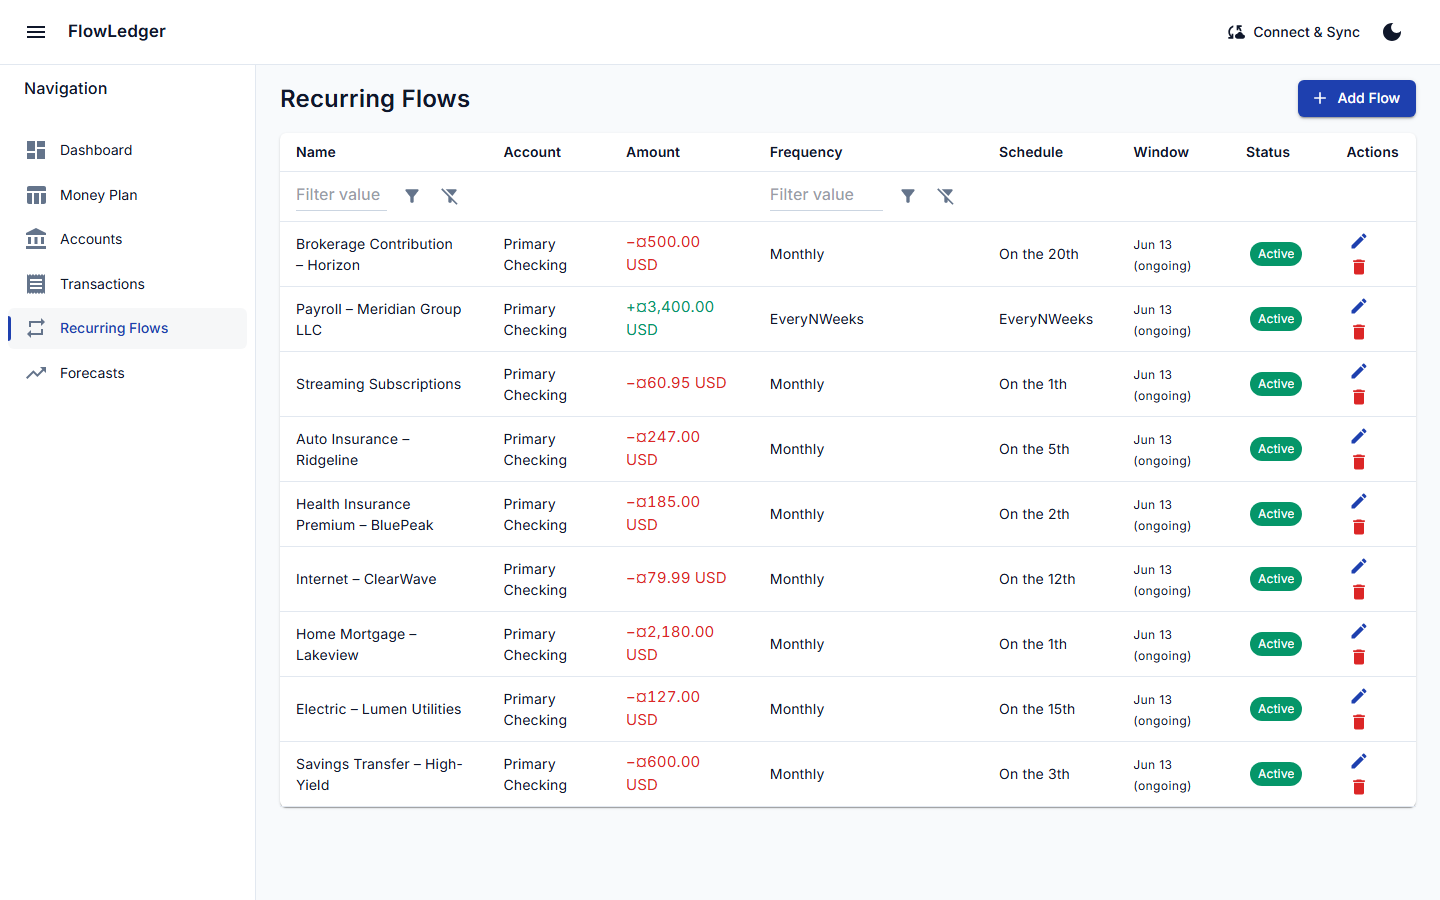
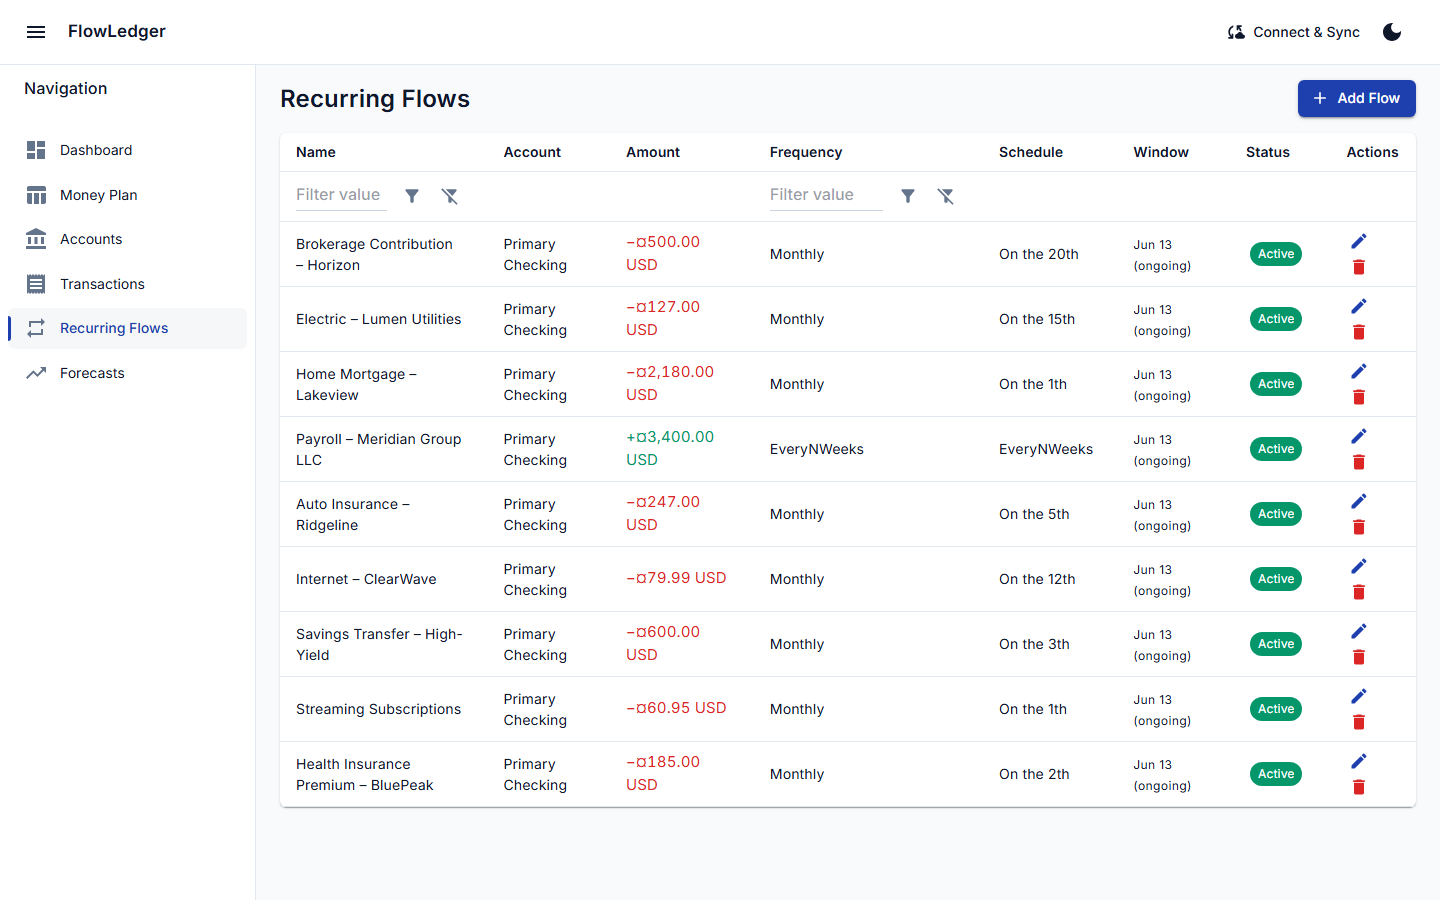
[FlowLedger] Add dark-mode screenshots: capture all pages in both light and dark themes
Extends ScreenshotCaptureTests to capture every page in both light and dark mode.
Uses Playwright ColorScheme emulation on a fresh browser context per pass — the app
reads prefers-color-scheme via FlowLedgerTheme.getSystemPrefersDark() on first render,
so context-level emulation is the most reliable and timing-safe trigger.

Naming scheme: existing <page>.png files unchanged for light mode; dark variants added
as <page>-dark.png (accounts, dashboard, forecast, money-plan, recurring-flows,
transactions).

Also raises check-added-large-files maxkb from 500 to 512 to accommodate the
transactions page screenshots which contain dense tabular data (~505 KB each).

diff --git a/tests/FlowLedger.E2E.Tests/ScreenshotCaptureTests.cs b/tests/FlowLedger.E2E.Tests/ScreenshotCaptureTests.cs
@@ -23,6 +23,10 @@ using Microsoft.Playwright;
 /// Optional:
 ///   SCREENSHOT_OUTPUT_DIR — override output directory (default: docs/assets/screenshots
 ///                           resolved relative to the repo root two levels above the test bin)
+///
+/// Naming convention:
+///   Light mode: &lt;page&gt;.png          (e.g. dashboard.png)
+///   Dark mode:  &lt;page&gt;-dark.png     (e.g. dashboard-dark.png)
 /// </summary>
 [Trait("Category", "Screenshots")]
 public class ScreenshotCaptureTests : E2ETestBase
@@ -42,17 +46,28 @@ public class ScreenshotCaptureTests : E2ETestBase
     private static string TenantId =>
         Environment.GetEnvironmentVariable("E2E_TENANT_ID") ?? DefaultTenantId;
 
+    // ── Page definitions ──────────────────────────────────────────────────────
+
+    /// <summary>
+    /// Pages to capture: (route, base filename without extension, required aria selector).
+    /// Both light and dark variants are captured for each entry.
+    /// </summary>
+    private static readonly (string Path, string BaseName, string WaitForSelector)[] Pages =
+    [
+        ("/",               "dashboard",       "[aria-label='Balance projection chart']"),
+        ("/accounts",       "accounts",        "[aria-label='Accounts table']"),
+        ("/transactions",   "transactions",    "[aria-label='Transactions table']"),
+        ("/money-plan",     "money-plan",      "[aria-label='Money plan spreadsheet']"),
+        ("/recurring-flows","recurring-flows", "[aria-label='Recurring flows table']"),
+        ("/forecasts",      "forecast",        "[aria-label='Aggregate balance projection chart']"),
+    ];
+
     // ── Screenshot tests ──────────────────────────────────────────────────────
 
-    [Fact(DisplayName = "Screenshots: seed data then capture all key pages")]
+    [Fact(DisplayName = "Screenshots: seed data then capture all key pages (light + dark)")]
     public async Task Capture_all_key_pages()
     {
         if (ShouldSkip) { return; }
-
-        // Screenshot-specific page setup: 1440×900 @ 2× for crisp HiDPI PNGs.
-        // E2ETestBase creates the page at the default viewport; we resize here.
-        await Page!.SetViewportSizeAsync(1440, 900);
-        Page.SetDefaultTimeout(30_000);
 
         var outputDir = ResolveOutputDir();
         Directory.CreateDirectory(outputDir);
@@ -60,28 +75,70 @@ public class ScreenshotCaptureTests : E2ETestBase
         // Step 1 — ensure data is seeded (idempotent: 409 = already connected).
         await SeedDataAsync();
 
-        // Step 2 — warm up the app by navigating to the home page once.
-        await NavigateAsync("/");
-        await WaitForLoadAsync();
-        await Page!.WaitForTimeoutAsync(2_000);
+        // Step 2 — capture light mode (default — no color-scheme override).
+        await CaptureAllPagesAsync(outputDir, darkMode: false);
 
-        // Step 3 — capture each page.
-        // Dashboard: wait for the SVG chart — "No forecast data" is not acceptable after seeding.
-        await CapturePageAsync("/", "dashboard.png", outputDir,
-            waitForSelector: "[aria-label='Balance projection chart']");
-        await CapturePageAsync("/accounts", "accounts.png", outputDir,
-            waitForSelector: "[aria-label='Accounts table']");
-        await CapturePageAsync("/transactions", "transactions.png", outputDir,
-            waitForSelector: "[aria-label='Transactions table']");
-        await CapturePageAsync("/money-plan", "money-plan.png", outputDir,
-            waitForSelector: "[aria-label='Money plan spreadsheet']");
-        await CapturePageAsync("/recurring-flows", "recurring-flows.png", outputDir,
-            waitForSelector: "[aria-label='Recurring flows table']");
-        await CapturePageAsync("/forecasts", "forecast.png", outputDir,
-            waitForSelector: "[aria-label='Aggregate balance projection chart']");
+        // Step 3 — capture dark mode.
+        // The app reads prefers-color-scheme via FlowLedgerTheme.getSystemPrefersDark()
+        // on first render (OnAfterRenderAsync) and passes it to ThemeService.Initialize().
+        // MudThemeProvider also has ObserveSystemDarkModeChange="true".
+        // EmulateMediaAsync on a fresh context is therefore the most reliable trigger:
+        // it makes matchMedia('(prefers-color-scheme: dark)') return true throughout the
+        // session without needing to click the in-app toggle or deal with Blazor circuit
+        // timing issues.
+        await CaptureAllPagesAsync(outputDir, darkMode: true);
     }
 
     // ── Private helpers ───────────────────────────────────────────────────────
+
+    /// <summary>
+    /// Captures every page in <see cref="Pages"/> using a fresh browser context so the
+    /// color-scheme emulation is clean for each mode.
+    /// </summary>
+    private async Task CaptureAllPagesAsync(string outputDir, bool darkMode)
+    {
+        var colorScheme = darkMode ? ColorScheme.Dark : ColorScheme.Light;
+        var suffix = darkMode ? "-dark" : string.Empty;
+
+        // Create a dedicated context for this color-scheme pass so localStorage from a
+        // previous pass does not bleed through (each context starts with a clean slate).
+        await using var context = await CreateColorSchemeContextAsync(colorScheme);
+        var page = await context.NewPageAsync();
+
+        // 1440×900 @ default DPR for crisp, consistent documentation screenshots.
+        await page.SetViewportSizeAsync(1440, 900);
+        page.SetDefaultTimeout(30_000);
+
+        // Warm up: navigate to the home page once to let the Blazor circuit initialise
+        // and the theme preference to be read from matchMedia.
+        var warmUpUrl = $"{BaseUrl.TrimEnd('/')}/";
+        await page.GotoAsync(warmUpUrl, new PageGotoOptions { WaitUntil = WaitUntilState.NetworkIdle });
+        await page.WaitForTimeoutAsync(2_000);
+
+        foreach (var (path, baseName, waitForSelector) in Pages)
+        {
+            var filename = $"{baseName}{suffix}.png";
+            await CapturePageAsync(page, path, filename, outputDir, waitForSelector);
+        }
+    }
+
+    /// <summary>
+    /// Creates a new <see cref="IBrowserContext"/> with the given color-scheme emulated.
+    /// The caller is responsible for disposing the returned context.
+    /// </summary>
+    private async Task<IBrowserContext> CreateColorSchemeContextAsync(ColorScheme colorScheme)
+    {
+        // Playwright is initialised by E2ETestBase.InitializeAsync(); the browser is
+        // the same Chromium instance — we just open an additional isolated context.
+        var browser = Context!.Browser
+            ?? throw new InvalidOperationException(
+                "E2ETestBase browser is not available. Ensure InitializeAsync ran successfully.");
+
+        return await browser.NewContextAsync(new BrowserNewContextOptions
+        {
+            ColorScheme = colorScheme,
+        });
+    }
 
     /// <summary>
     /// Navigate to <paramref name="path"/>, wait for <paramref name="waitForSelector"/>
@@ -90,18 +147,20 @@ public class ScreenshotCaptureTests : E2ETestBase
     /// screenshot.
     /// </summary>
     private async Task CapturePageAsync(
+        IPage page,
         string path,
         string filename,
         string outputDir,
         string? waitForSelector)
     {
-        await NavigateAsync(path);
+        var url = $"{BaseUrl.TrimEnd('/')}/{path.TrimStart('/')}";
+        await page.GotoAsync(url, new PageGotoOptions { WaitUntil = WaitUntilState.NetworkIdle });
 
         // If a selector hint is given, wait for it to appear (data loaded / chart rendered).
         // A timeout here is a FAILURE — the page did not reach the expected ready state.
         if (!string.IsNullOrWhiteSpace(waitForSelector))
         {
-            await Page!.WaitForSelectorAsync(waitForSelector, new PageWaitForSelectorOptions
+            await page.WaitForSelectorAsync(waitForSelector, new PageWaitForSelectorOptions
             {
                 State = WaitForSelectorState.Visible,
                 Timeout = 25_000,
@@ -110,22 +169,99 @@ public class ScreenshotCaptureTests : E2ETestBase
 
         // Assert no visible error alert or JSON-error text before capturing the screenshot.
         // If an error IS visible the test fails here with the error text — not a broken image.
-        await AssertNoErrorAlertVisible();
-
-        // Assert no console errors, uncaught JS exceptions, or HTTP >= 400 responses were
-        // recorded since the page was created.  Inherited from E2ETestBase.
-        AssertNoPageErrors();
+        await AssertNoErrorAlertVisibleOnPage(page);
 
         // Extra settle time for chart animations to finish rendering.
-        await Page!.WaitForTimeoutAsync(1_500);
+        await page.WaitForTimeoutAsync(1_500);
 
         var outputPath = Path.Combine(outputDir, filename);
 
-        await Page.ScreenshotAsync(new PageScreenshotOptions
+        await page.ScreenshotAsync(new PageScreenshotOptions
         {
             Path = outputPath,
             FullPage = true,
         });
+    }
+
+    /// <summary>
+    /// Page-scoped variant of <see cref="E2ETestBase.AssertNoErrorAlertVisible"/> that
+    /// operates on an arbitrary <see cref="IPage"/> instance instead of the base-class
+    /// <c>Page</c> property.  Required because screenshot capture opens additional
+    /// browser contexts with their own page instances.
+    /// </summary>
+    private static async Task AssertNoErrorAlertVisibleOnPage(IPage page)
+    {
+        var assertiveLocator = page.Locator("[aria-live='assertive']");
+
+        const int pollIntervalMs = 250;
+        const int maxPollMs = 1500;
+        var deadline = DateTime.UtcNow.AddMilliseconds(maxPollMs);
+
+        var appErrorPhrases = new[]
+        {
+            "Failed to load",
+            "Couldn't load",
+            "server returned",
+            "An error occurred",
+            "An unhandled exception",
+            "HTTP 500",
+        };
+
+        while (true)
+        {
+            var count = await assertiveLocator.CountAsync();
+            if (count > 0)
+            {
+                for (var i = 0; i < count; i++)
+                {
+                    var el = assertiveLocator.Nth(i);
+                    if (!await el.IsVisibleAsync())
+                    {
+                        continue;
+                    }
+
+                    var alertText = await el.InnerTextAsync();
+                    if (appErrorPhrases.Any(p =>
+                            alertText.Contains(p, StringComparison.OrdinalIgnoreCase)))
+                    {
+                        false.Should().BeTrue(
+                            $"Expected no application error alert on the page, but found a " +
+                            $"visible [aria-live='assertive'] element with text: '{alertText}'");
+                        return;
+                    }
+                }
+            }
+
+            if (DateTime.UtcNow >= deadline)
+            {
+                break;
+            }
+
+            await page.WaitForTimeoutAsync(pollIntervalMs);
+        }
+
+        var jsonErrorPatterns = new[]
+        {
+            "invalid start of a value",
+            "The JSON value could not be converted",
+            "JSException",
+            "JsonException",
+            "An unhandled exception occurred",
+            "HTTP 500",
+        };
+
+        foreach (var pattern in jsonErrorPatterns)
+        {
+            var locator = page.GetByText(pattern, new PageGetByTextOptions { Exact = false });
+            var count = await locator.CountAsync();
+            if (count > 0 && await locator.First.IsVisibleAsync())
+            {
+                var text = await locator.First.InnerTextAsync();
+                false.Should().BeTrue(
+                    $"Expected no error text on the page, but found visible text matching " +
+                    $"'{pattern}': '{text}'");
+            }
+        }
     }
 
     /// <summary>